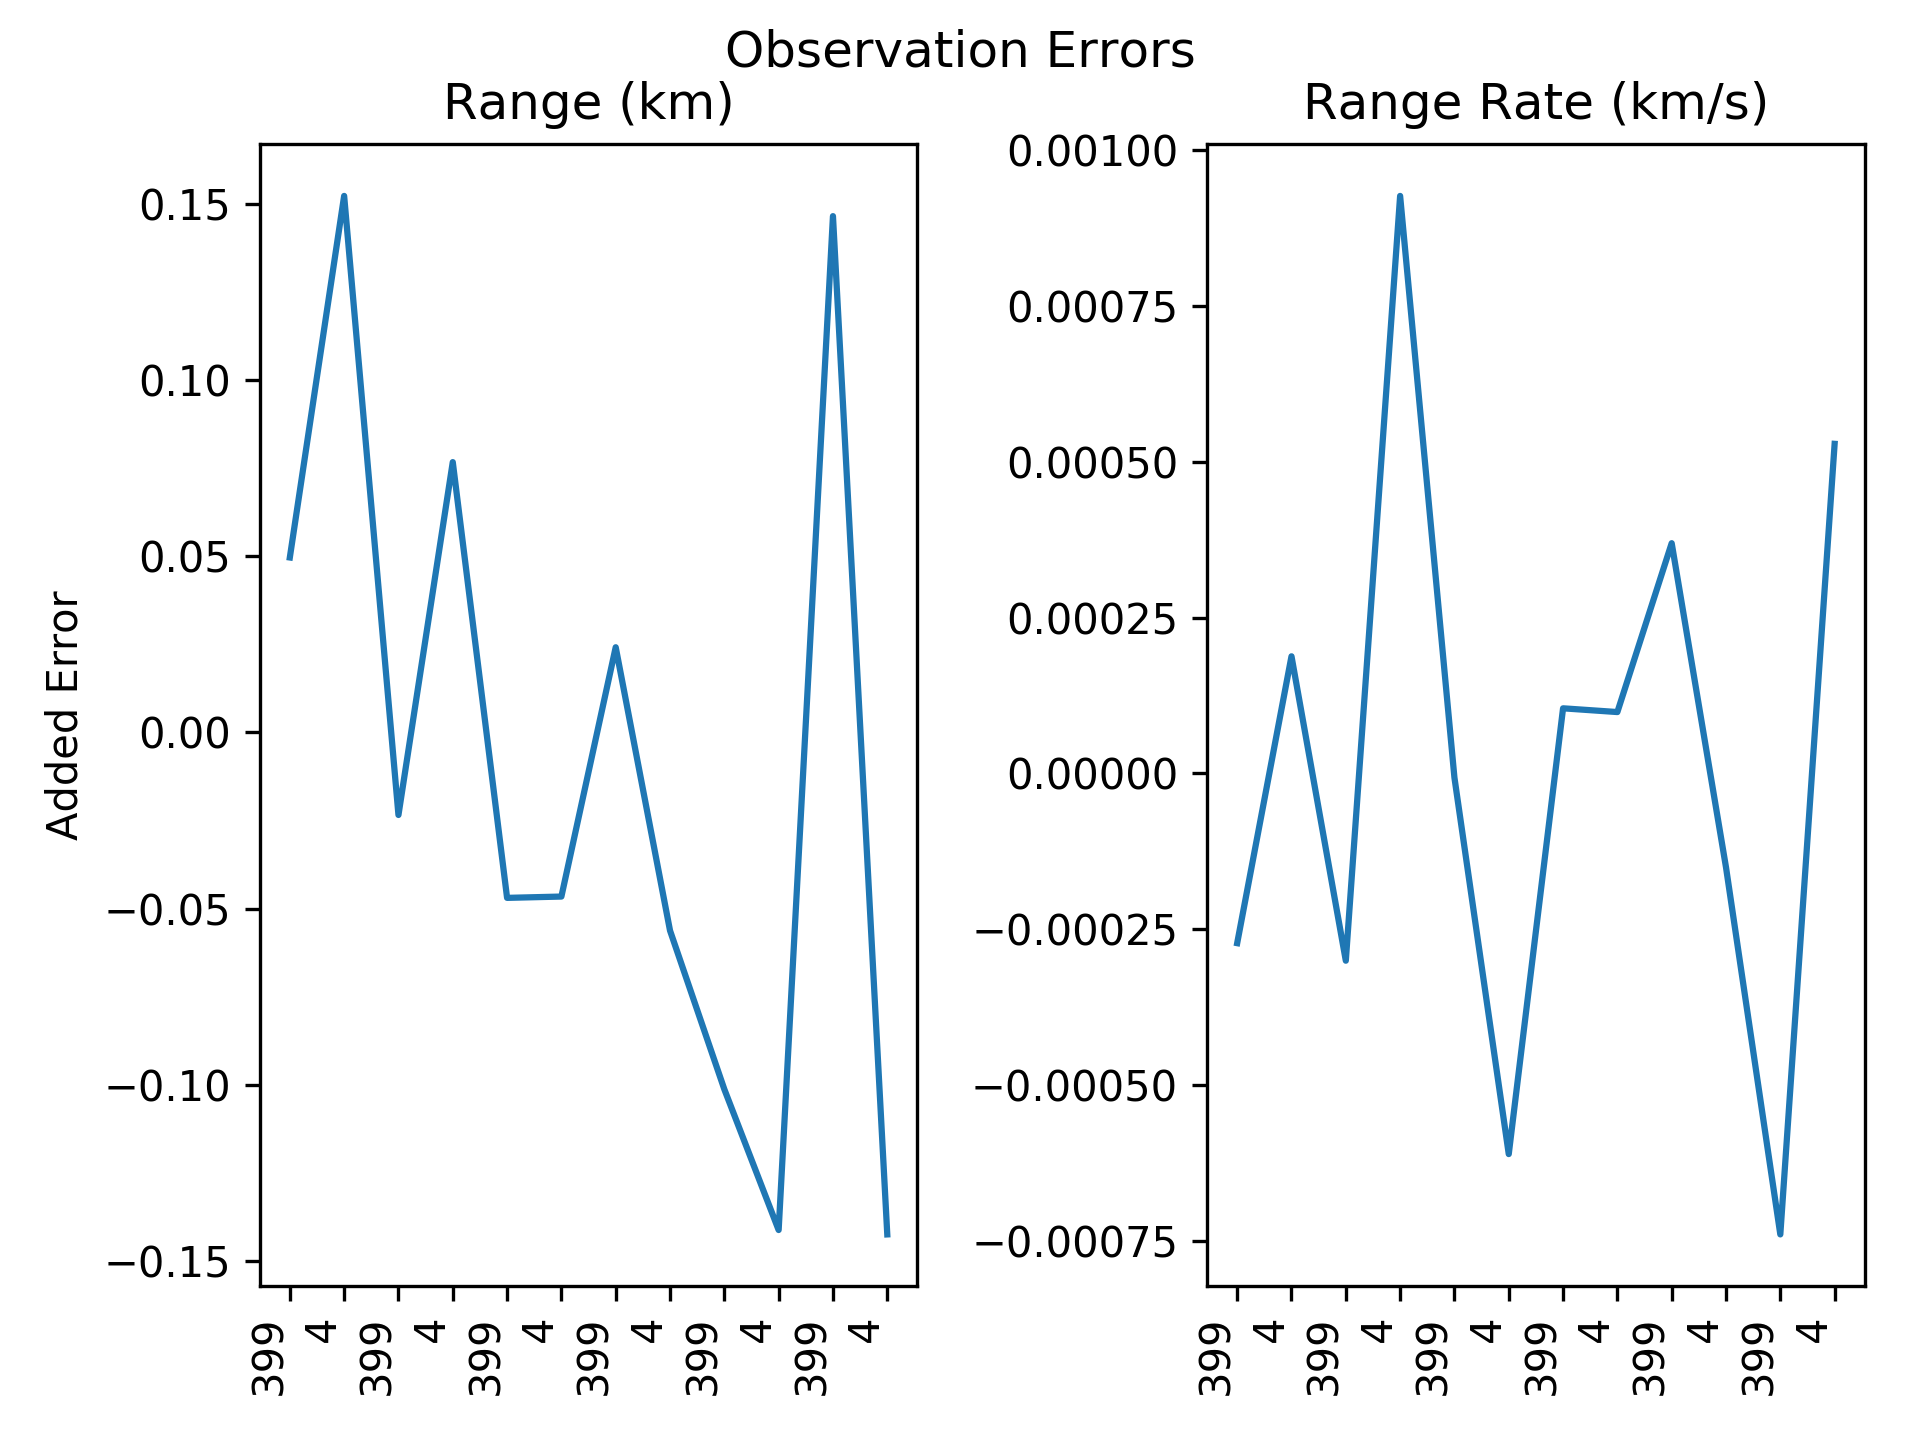
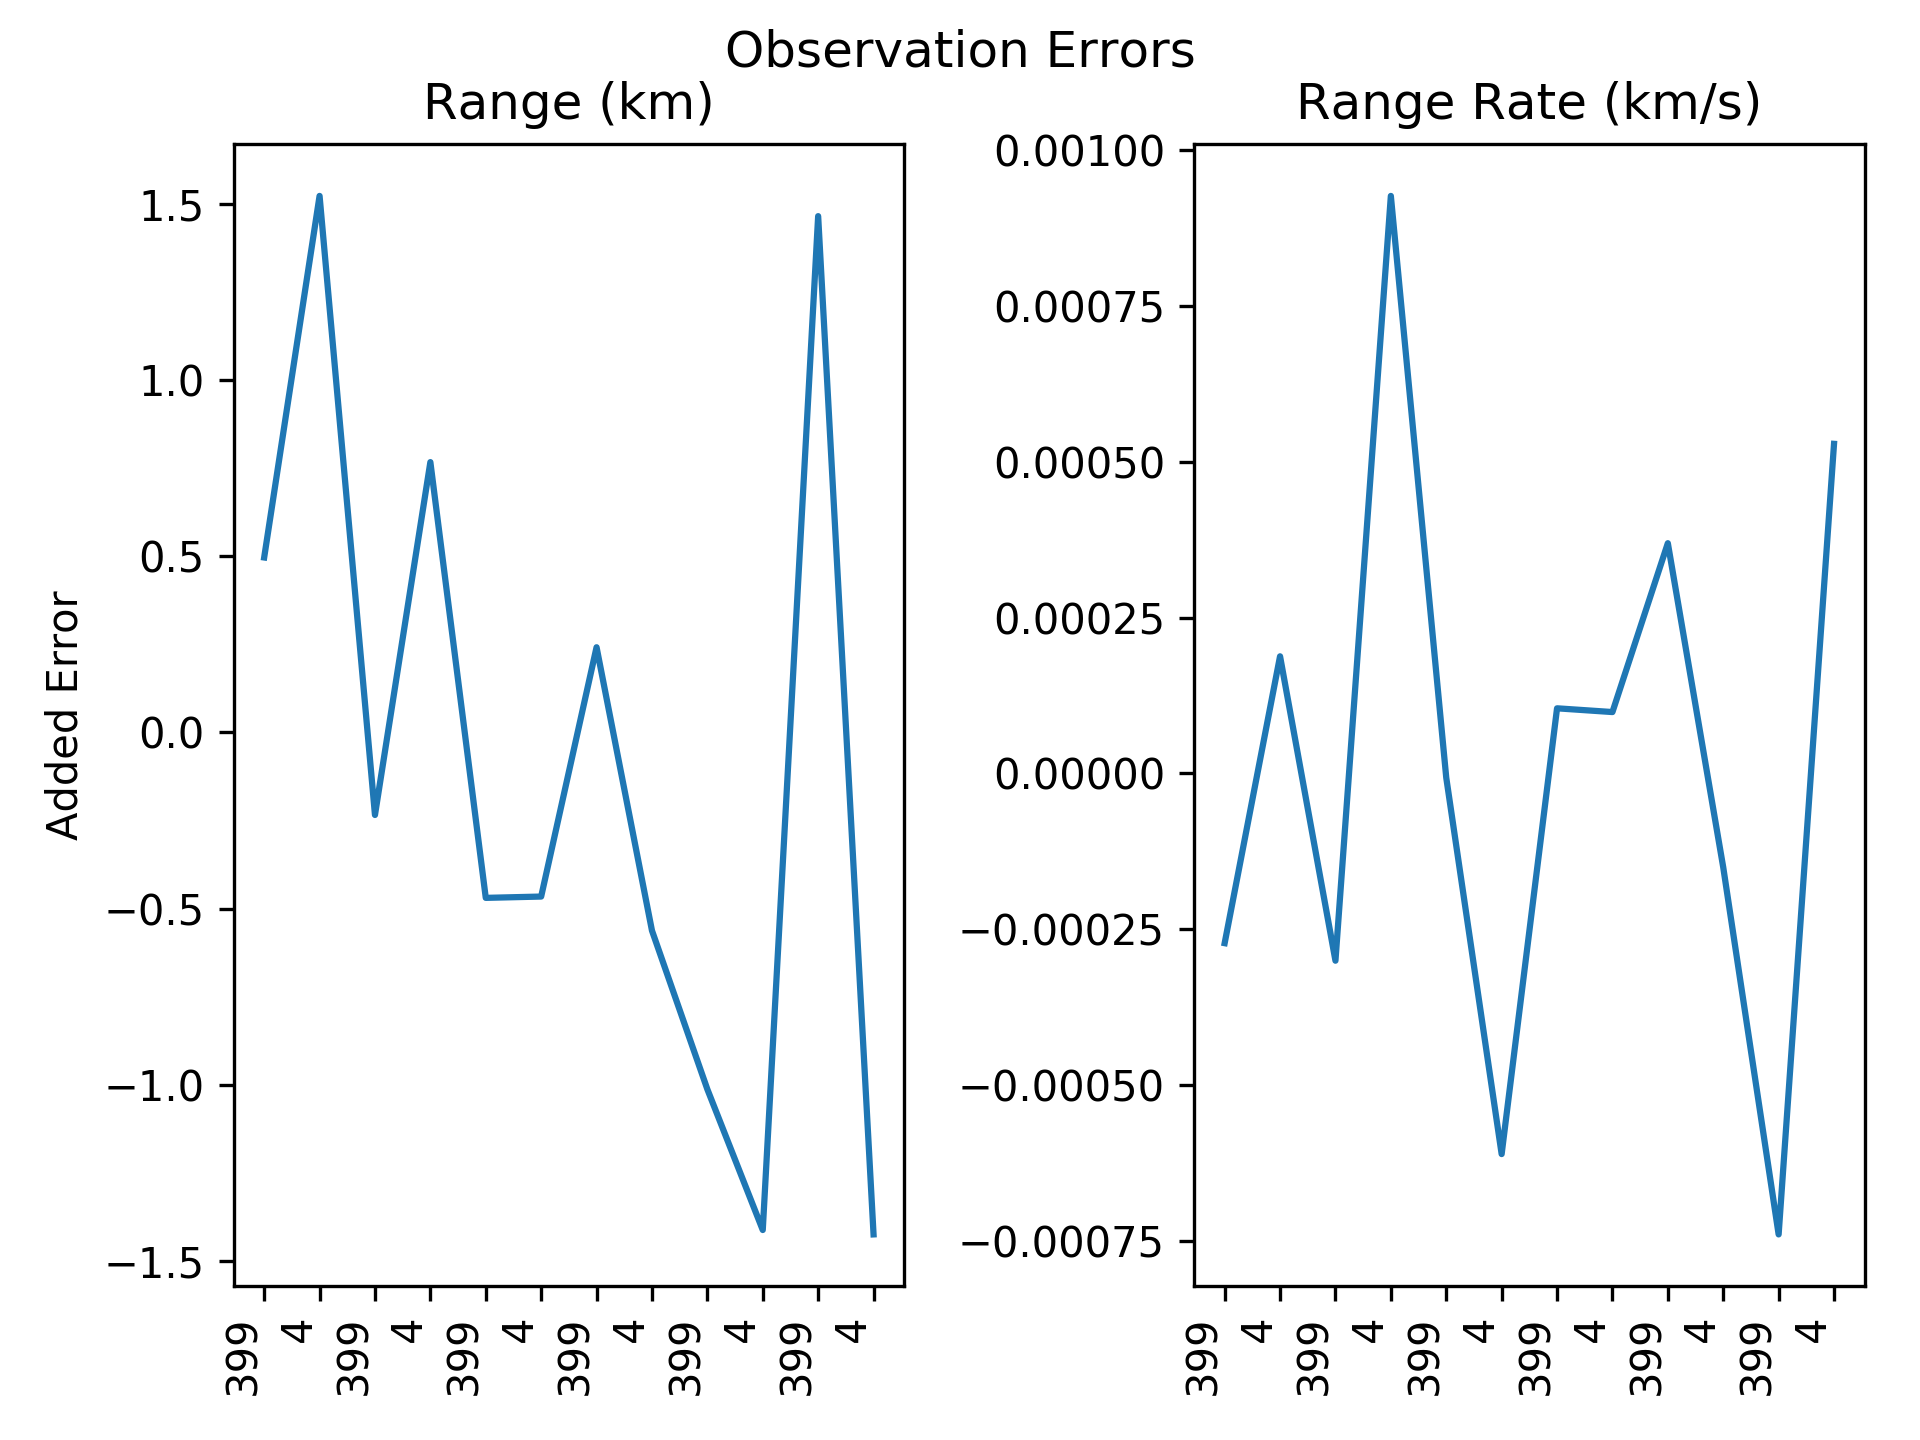
Minor changes with different figures

diff --git a/DINObatch/init.py b/DINObatch/init.py
@@ -162,7 +162,7 @@ def main():
     extras['SNC'] = (2*10**(-4))**3
 
     # Number of batch iterations
-    extras['iterations'] = 4
+    extras['iterations'] = 5
 
     # Initializing the error
     extras['x_hat_0'] = 0
@@ -201,7 +201,7 @@ def main():
 
     # uncertainty to be added in the form of noise to the measurables. Takes the form of variance
     observation_uncertainty = np.identity(2)
-    observation_uncertainty[0, 0] = 0.1 ** 2
+    observation_uncertainty[0, 0] = 1 ** 2
     observation_uncertainty[1, 1] = .0005 ** 2
 
     # the initial STM is an identity matrix
